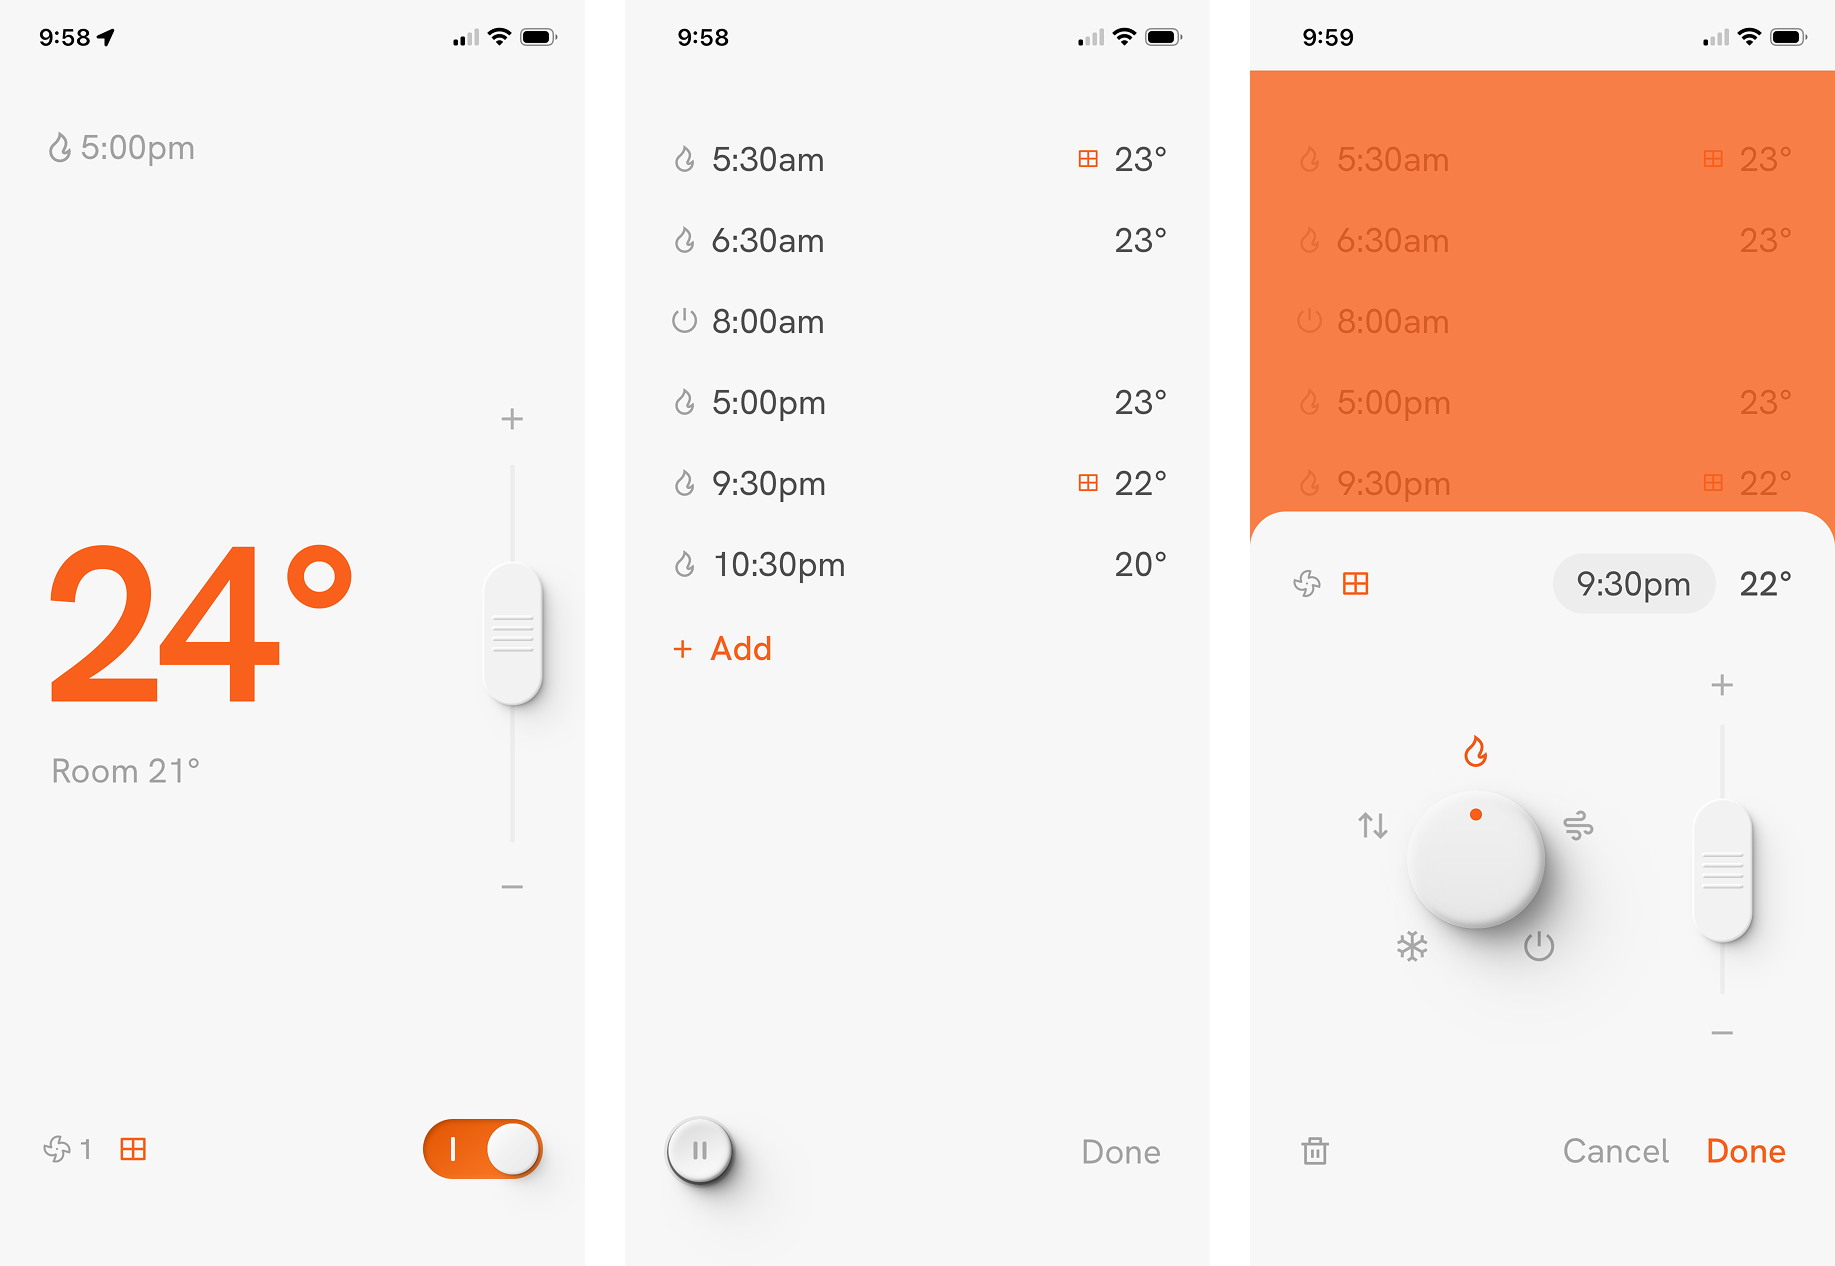
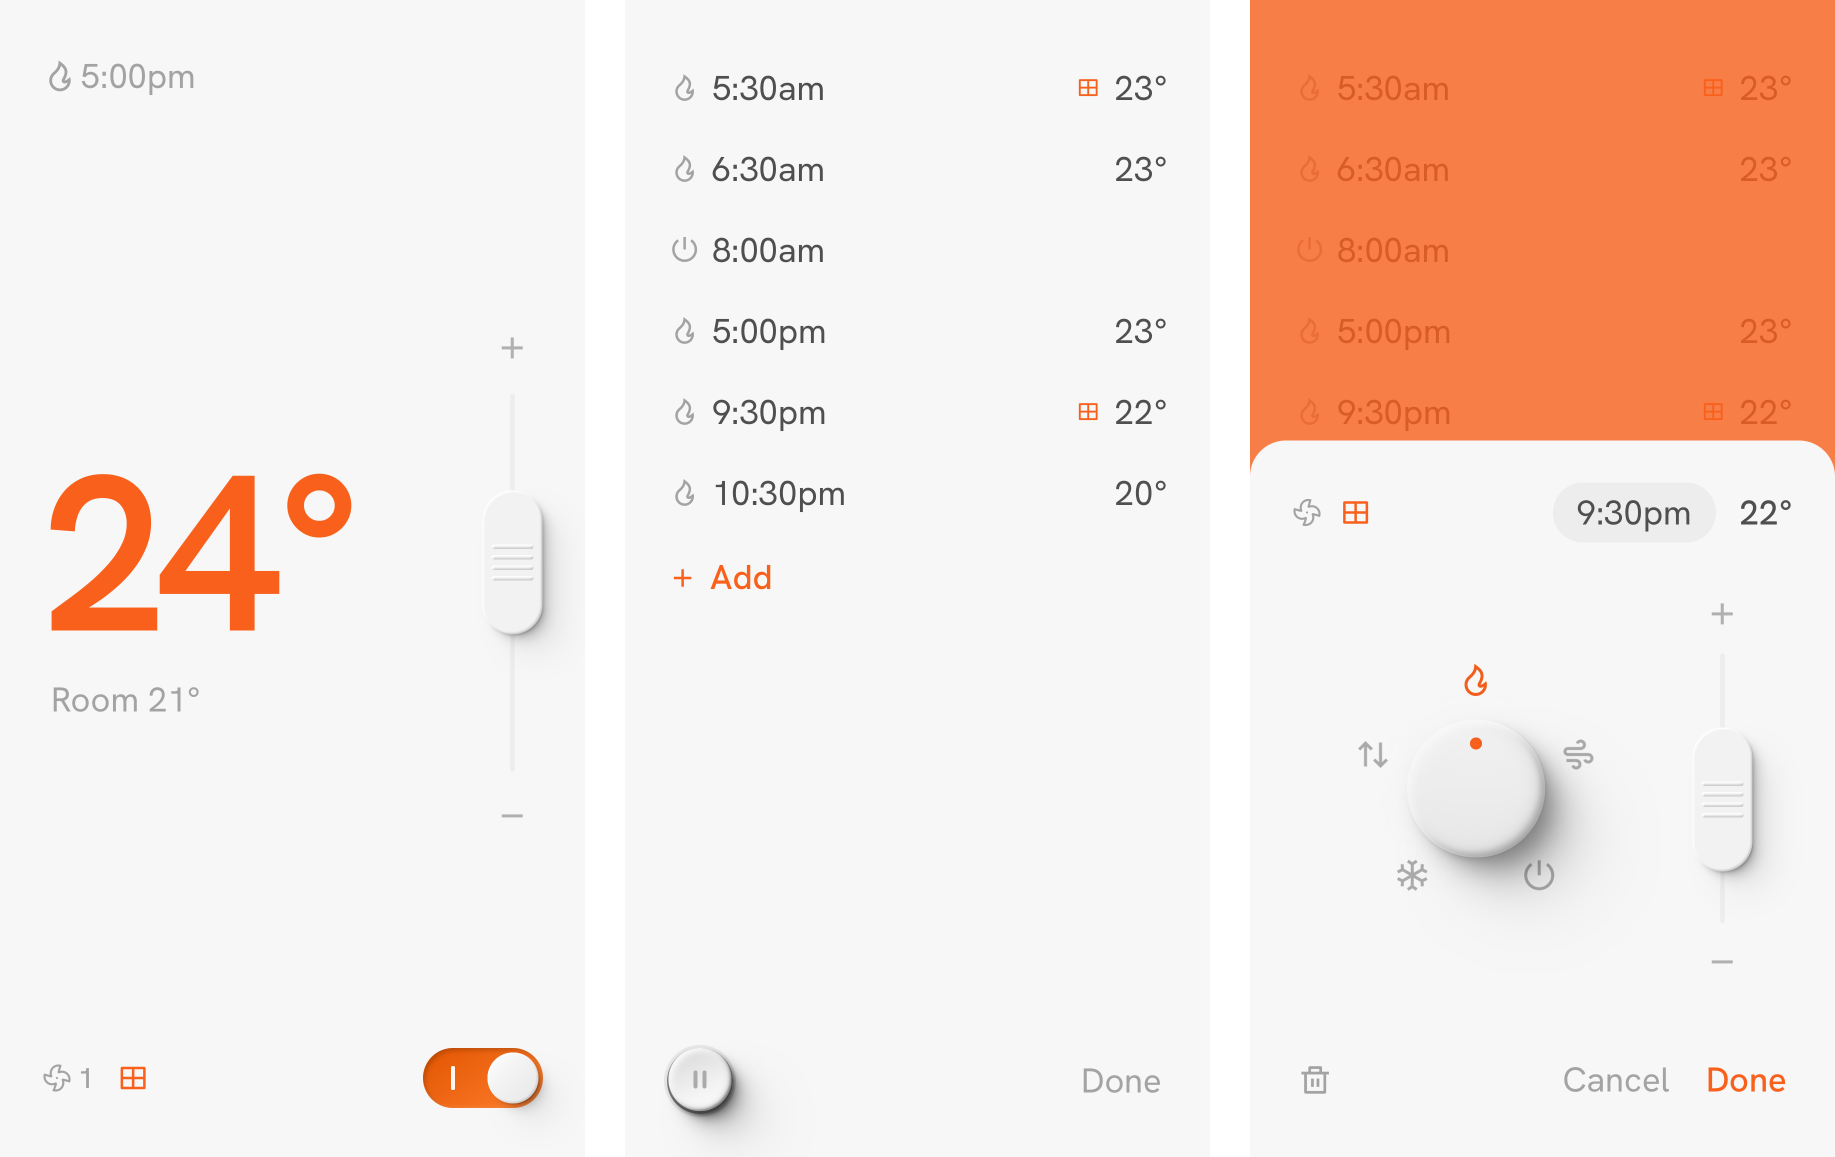
More readme fixes

diff --git a/README.md b/README.md
@@ -1,6 +1,6 @@
 # Dieter
 
-Named after [Dieter Rams](https://en.wikipedia.org/wiki/Dieter_Rams) — the patron saint of knobs and buttons — Dieter is a self-hosted scheduler for **Daikin FDYA / BRP15B61 Airbase** heat pumps. Set it and forget it: tell Dieter when to heat, when to cool, and when to shut up.
+Named after [Dieter Rams](https://en.wikipedia.org/wiki/Dieter_Rams) — the patron saint of quality knobs and buttons — Dieter is a self-hosted scheduler for **Daikin FDYA / BRP15B61 Airbase** heat pumps.
 
 It‘s a PWA, so it installs on your phone’s home screen and behaves like a native app.
 
@@ -12,9 +12,9 @@ People who own a Daikin BRP15B61 and are comfortable with the command line. You 
 
 ## What it does
 
-- Runs time-based schedules — as many as you like, including ’off‘ schedules
+- Runs time-based schedules — **as many as you like,** including ’off‘ schedules
 - Schedules can include changes to fan speed and zone
-- Shows live status (set temp, room temp, mode) with full manual control
+- Shows live status (set temp, room temp, mode) with **full manual control**
 - Allows pausing of scheduled changes if you’re away
 - Talks directly to the BRP15B61 on your local network — no Daikin cloud, no accounts, no subscriptions
 - Pleases your eyes and brain with easy to grok and use controls